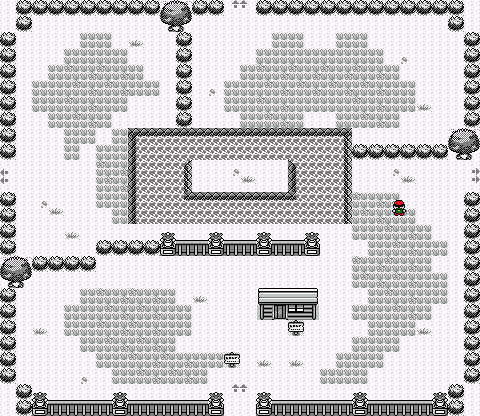
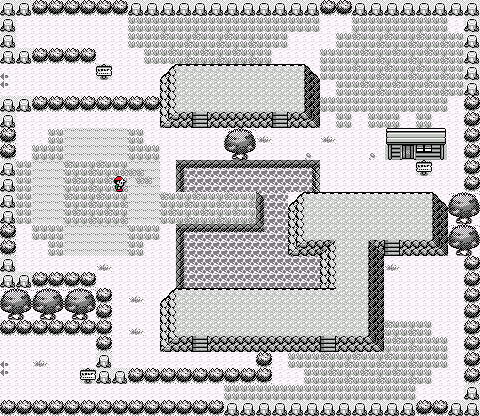
nouveaux sprites

diff --git a/carte/affichage.py b/carte/affichage.py
@@ -125,7 +125,7 @@ class MainWindow(QMainWindow):
             img1 = Image.open("..\code\gui\Safari_Zone_area_1_RBY.png")
             img2 = Image.open("..\code\gui\Safari_Zone_area_2_RBY.png")
             img3 = Image.open("..\code\gui\Safari_Zone_area_3_RBY.png")
-            img4 = Image.open("..\code\gui\player_front.png")
+            img4 = Image.open("..\code\gui\player_left.png")
             all_img = [img0,img1,img2,img3]
             new_image = all_img[j1.case.area_id]
             new_image.paste(img4, (j1.case.y * 8, j1.case.x * 8), mask = img4)
@@ -141,7 +141,7 @@ class MainWindow(QMainWindow):
             img1 = Image.open("..\code\gui\Safari_Zone_area_1_RBY.png")
             img2 = Image.open("..\code\gui\Safari_Zone_area_2_RBY.png")
             img3 = Image.open("..\code\gui\Safari_Zone_area_3_RBY.png")
-            img4 = Image.open("..\code\gui\player_front.png")
+            img4 = Image.open("..\code\gui\player_right.png")
             all_img = [img0,img1,img2,img3]
             new_image = all_img[j1.case.area_id]
             new_image.paste(img4, (j1.case.y * 8, j1.case.x * 8), mask = img4)
